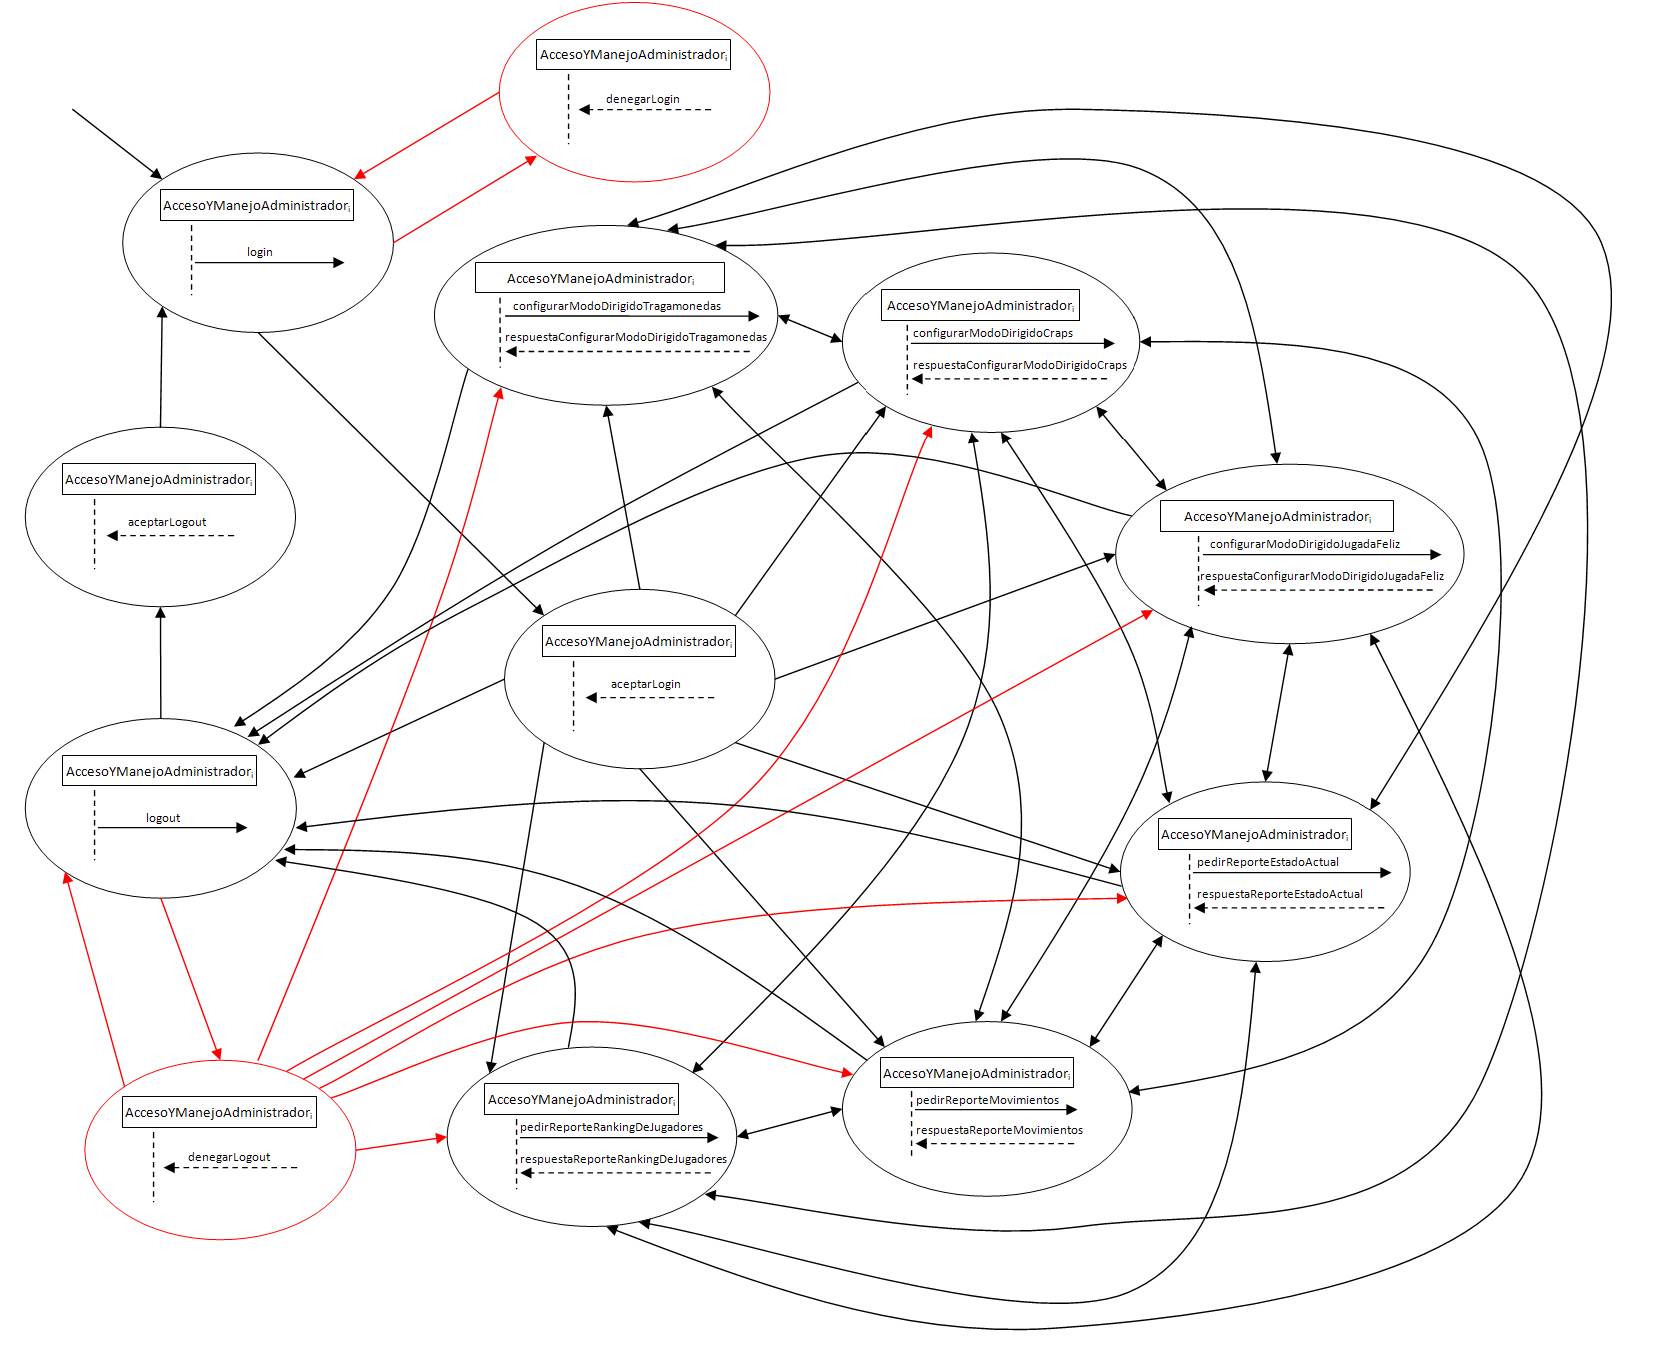
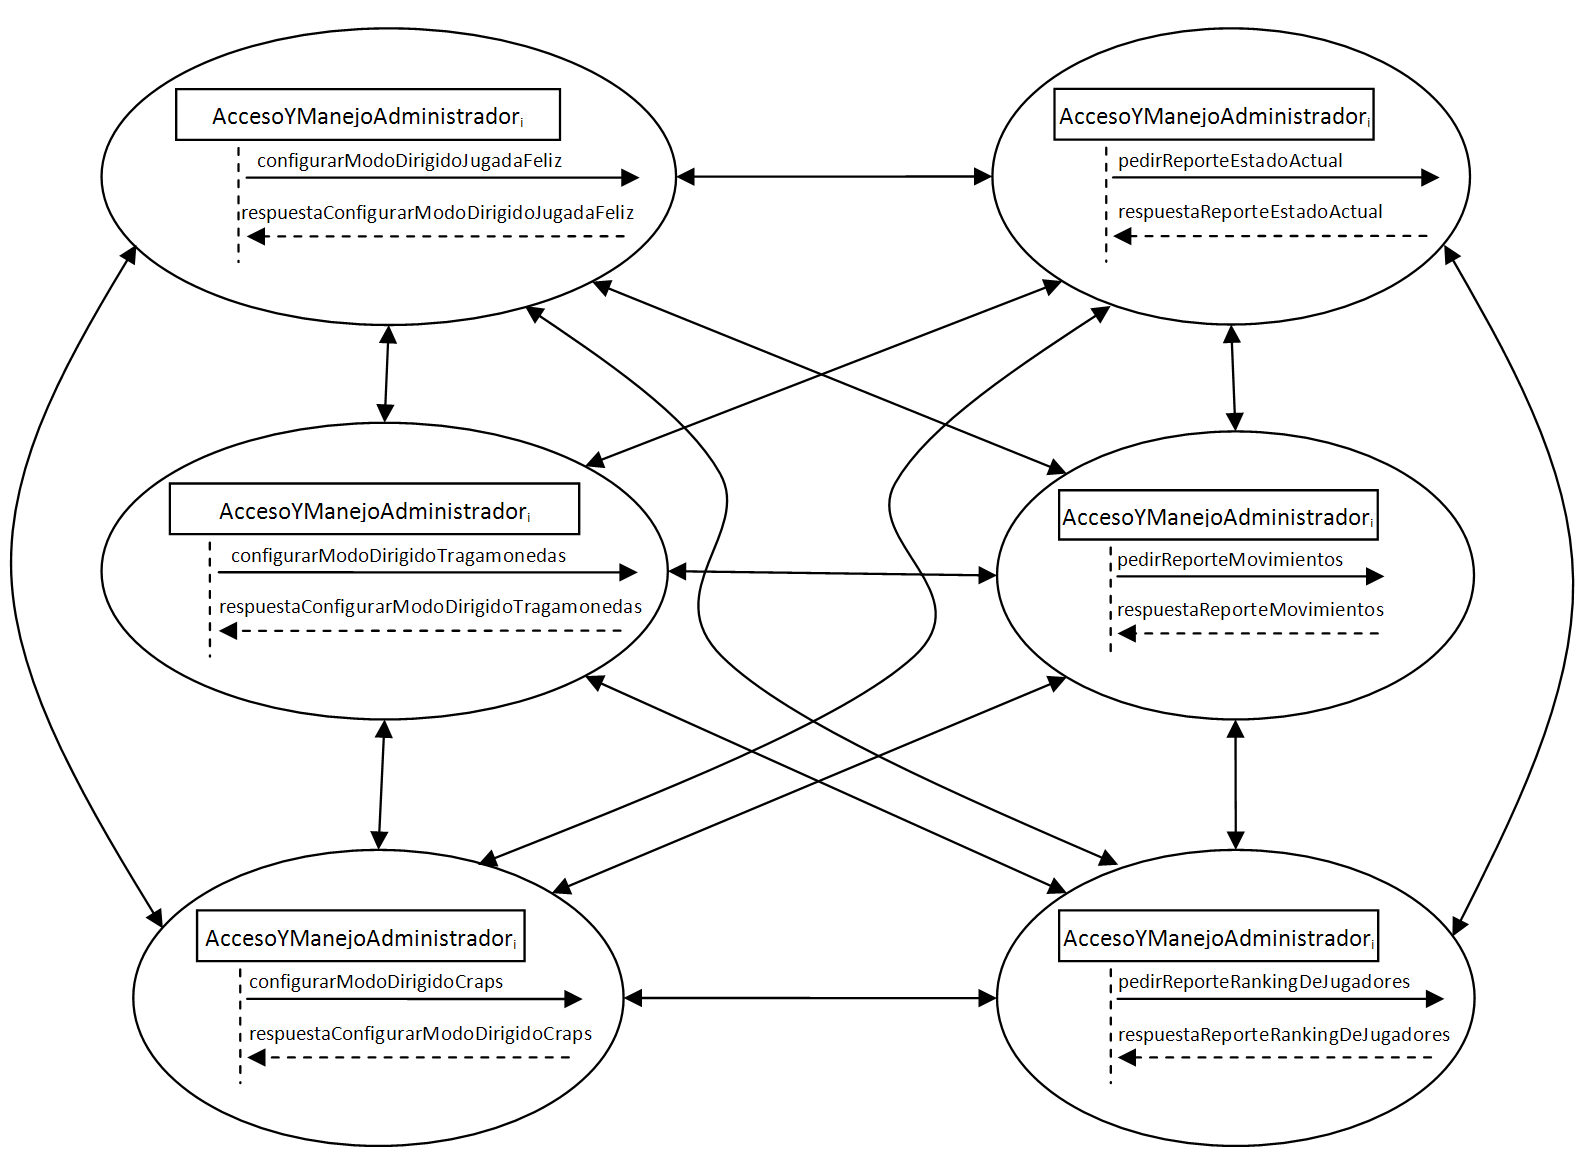
modified   trunk/tp2/doc/DiagramaProtocoloAdmin.docx modified   trunk/tp2/img/FSM_portAccesoYManejoAdministrador.png * nuevo diagrama de estados y explicación en el informe
modified   trunk/tp2/doc/Extensiones al protocolo.txt
modified   trunk/tp2/informe/protocolo.tex
- login, logout
+ admin password en cada request

diff --git a/tp2/informe/protocolo.tex b/tp2/informe/protocolo.tex
@@ -9,20 +9,17 @@ Este protocolo corresponde a un port de un componente cliente de un Cliente/Serv
 
 Se usa para que un usuario administrador pueda:
 \begin{itemize}
-    \item{autenticarse}
     \item{pedir reportes}
     \item{configurar opciones del modo dirigido}
 \end{itemize}
 
-El servidor no deber'ia aceptar los diferentes pedidos admitidos por este protocolo si el usuario administrador no se autentica como tal al iniciar la aplicaci'on.
+El servidor no deber'ia aceptar los diferentes pedidos admitidos por este protocolo si el usuario administrador no se autentica como tal proporcionando el password correcto en cada operaci'on.
 
-Este protocolo permite que el acceso de un usuario administrador sea exclusivo, no admitiendo el servidor que ingrese m'as de un administrador en forma simult'anea. 
-Esto asegura la consistencia de los datos ya que el servidor centraliza y administra los accesos.
-
-Hemos factorizado en un mismo mensaje las dos posibles respuestas de parte del servidor en cuanto a la configuraci'on del casino en modo dirigido. Es importante destacar que estas respuestas son simplemente a modo informativo de que las configuraciones de modo dirigido fueron modificadas con 'exito (o no han podido ser modificadas). La aplicaci'on cliente no tendr'ia por qu'e modificar su estado en respuesta a estas notificaciones, salvo a lo sumo dar acuse de recibo al usuario por alg'un mecanismo (un messagebox por ejemplo). El 'unico caso en que el servidor deber'ia contestar en forma negativa estos pedidos es cuando el usuario que hace el pedido no fue autenticado satisfactoriamente por el servidor o bien se intenta acceder de forma ilegal, lo cual suponemos no resulta interesante a los fines del trabajo pr'actico en cuesti'on.
+Hemos factorizado en un mismo mensaje las dos posibles respuestas de parte del servidor en cuanto a la configuraci'on del casino en modo dirigido. Es importante destacar que estas respuestas son simplemente a modo informativo de que las configuraciones de modo dirigido fueron modificadas con 'exito (o no han podido ser modificadas). La aplicaci'on cliente no tendr'ia por qu'e modificar su estado en respuesta a estas notificaciones, salvo a lo sumo dar acuse de recibo al usuario por alg'un mecanismo (un messagebox por ejemplo). El 'unico caso en que el servidor deber'ia contestar en forma negativa estos pedidos es cuando el usuario que hace el pedido no fue autenticado satisfactoriamente por el servidor.
 
 \subsubsection{Diagrama}
 El siguiente diagrama describe los estados y transiciones que ocurren cuando se hace un uso esperado del protocolo.
+Por la forma del protocolo dise~nado cualquiera podr'ia ser el estado inicial.
 
 Se realizaron cambios con respecto a la notaci'on empleada en el documento del protocolo original para poder reducir la cantidad de flechas con el fin de que el diagrama sea m'as legible. A saber, se admiten flechas bidireccionales en el grafo dirigido, esto significa que puede recorrerse ese eje en ambas direcciones. En el documento original se utilizaban 2 flechas con direcci'on opuesta para representar esto.
 
@@ -30,105 +27,6 @@ Se realizaron cambios con respecto a la notaci'on empleada en el documento del p
 
 \clearpage
 \subsubsection{Archivos de comunicaci'on}
-
-
-\subsubsubsection{login}
-\bf{Nombre del archivo:} \it{loginXXYYYY.xml}
-\begin{itemize}
-    \item{XX: n'umero de grupo}
-    \item{YYYY: n'umero de terminal virtual}
-\end{itemize}
-
-\bf{Descripci'on del xml:}
-\begin{verbatim}
-    <?xml version="1.0" encoding="UTF-8" ?>
-    <login vTerm="id terminal virtual" password="password de administrador"/>
-\end{verbatim}
-
-
-\subsubsubsection{aceptarLogin}
-\bf{Nombre del archivo:} \it{respuestaLoginXXYYYY.xml}
-\begin{itemize}
-    \item{XX: n'umero de grupo}
-    \item{YYYY: n'umero de terminal virtual}
-\end{itemize}
-
-\bf{Descripci'on del xml:}
-\begin{verbatim}
-    <?xml version="1.0" encoding="UTF-8" ?>
-    <respuestaLogin vTerm="id terminal virtual">
-        <aceptado fueAceptado="si" />
-        <descripcion>"informaci'on adicional"</descripcion>
-    </respuestaLogin>
-\end{verbatim}
-
-
-\subsubsubsection{denegarLogin}
-\bf{Nombre del archivo:} \it{respuestaLoginXXYYYY.xml}
-\begin{itemize}
-    \item{XX: n'umero de grupo}
-    \item{YYYY: n'umero de terminal virtual}
-\end{itemize}
-
-\bf{Descripci'on del xml:}
-\begin{verbatim}
-    <?xml version="1.0" encoding="UTF-8" ?>
-    <respuestaLogin vTerm="id terminal virtual">
-        <aceptado fueAceptado="no" />
-        <descripcion>"informaci'on adicional, de por qu'e no fue aceptado por ejemplo
-        u otra informacion relevante"</descripcion>
-    </respuestaLogin>
-\end{verbatim}
-
-
-\subsubsubsection{logout}
-\bf{Nombre del archivo:} \it{logoutXXYYYY.xml}
-\begin{itemize}
-    \item{XX: n'umero de grupo}
-    \item{YYYY: n'umero de terminal virtual}
-\end{itemize}
-
-\bf{Descripci'on del xml:}
-\begin{verbatim}
-    <?xml version="1.0" encoding="UTF-8" ?>
-    <logout vTerm="id terminal virtual" password="password de administrador"/>
-\end{verbatim}
-
-
-\subsubsubsection{aceptarLogout}
-\bf{Nombre del archivo:} \it{respuestaLogoutXXYYYY.xml}
-\begin{itemize}
-    \item{XX: n'umero de grupo}
-    \item{YYYY: n'umero de terminal virtual}
-\end{itemize}
-
-\bf{Descripci'on del xml:}
-\begin{verbatim}
-    <?xml version="1.0" encoding="UTF-8" ?>
-    <respuestaLogout vTerm="id terminal virtual">
-        <aceptado fueAceptado="si" />
-        <descripcion>"informaci'on adicional"</descripcion>
-    </respuestaLogout>
-\end{verbatim}
-
-
-\subsubsubsection{denegarLogout}
-\bf{Nombre del archivo:} \it{respuestaLogoutXXYYYY.xml}
-\begin{itemize}
-    \item{XX: n'umero de grupo}
-    \item{YYYY: n'umero de terminal virtual}
-\end{itemize}
-
-\bf{Descripci'on del xml:}
-\begin{verbatim}
-    <?xml version="1.0" encoding="UTF-8" ?>
-    <respuestaLogout vTerm="id terminal virtual">
-        <aceptado fueAceptado="no" />
-        <descripcion>"informaci'on adicional, de por qu'e no fue aceptado por ejemplo
-        u otra informacion relevante"</descripcion>
-    </respuestaLogout>
-\end{verbatim}
-
 
 \subsubsubsection{pedirReporteRankingDeJugadores}
 \bf{Nombre del archivo:} \it{pedidoReporteRankingDeJugadoresXXYYYY.xml}
@@ -140,7 +38,7 @@ Se realizaron cambios con respecto a la notaci'on empleada en el documento del p
 \bf{Descripci'on del xml:}
 \begin{verbatim}
     <?xml version="1.0" encoding="UTF-8" ?>
-    <pedidoReporteRankingDeJugadores vTerm="id terminal virtual" />
+    <pedidoReporteRankingDeJugadores vTerm="id terminal virtual" password="password de administrador" />
 \end{verbatim}
 
 
@@ -155,14 +53,15 @@ Se realizaron cambios con respecto a la notaci'on empleada en el documento del p
 \begin{verbatim}
 <?xml version="1.0" encoding="UTF-8" ?>
     <respuestaReporteRankingDeJugadores vTerm="id terminal virtual">
-        <jugadoresMasGanadores>
+        <aceptado fueAceptado="si | no" />
+       [<jugadoresMasGanadores>
             <jugador ranking="posicion" nombre="nombre del jugador" />
             ...
         </jugadoresMasGanadores>
         <jugadoresMasPerdedores>
             <jugador ranking="posicion" nombre="nombre del jugador" />
             ...
-        </jugadoresMasPerdedores>
+        </jugadoresMasPerdedores>]
     </respuestaReporteRankingDeJugadores>
 \end{verbatim}
 
@@ -177,7 +76,7 @@ Se realizaron cambios con respecto a la notaci'on empleada en el documento del p
 \bf{Descripci'on del xml:}
 \begin{verbatim}
     <?xml version="1.0" encoding="UTF-8" ?>
-    <pedidoReporteEstadoActual vTerm="id terminal virtual"></pedidoReporteEstadoActual>
+    <pedidoReporteEstadoActual vTerm="id terminal virtual" password="password de administrador" />
 \end{verbatim}
 
 
@@ -192,7 +91,8 @@ Se realizaron cambios con respecto a la notaci'on empleada en el documento del p
 \begin{verbatim}
     <?xml version="1.0" encoding="UTF-8" ?>
     <respuestaReporteEstadoActual vTerm="id terminal virtual">
-        <jugadores>
+        <aceptado fueAceptado="si | no" />
+       [<jugadores>
             <jugador nombre="nombre del usuario jugador" saldo="saldo del jugador" />
             ... 
         </jugadores>
@@ -245,7 +145,7 @@ Se realizaron cambios con respecto a la notaci'on empleada en el documento del p
         <pozosCasino>
             <pozoFeliz>"monto del pozo feliz"</pozoFeliz>
         </pozosCasino>
-        <saldoCasino>"saldo del casino"</saldoCasino>
+        <saldoCasino>"saldo del casino"</saldoCasino>]
     </respuestaReporteEstadoActual>
 \end{verbatim}
 
@@ -260,7 +160,7 @@ Se realizaron cambios con respecto a la notaci'on empleada en el documento del p
 \bf{Descripci'on del xml:}
 \begin{verbatim}
     <?xml version="1.0" encoding="UTF-8" ?>
-    <pedidoReporteMovimientos vTerm="id terminal virtual" />
+    <pedidoReporteMovimientos vTerm="id terminal virtual" password="password de administrador" />
 \end{verbatim}
 
 
@@ -275,7 +175,8 @@ Se realizaron cambios con respecto a la notaci'on empleada en el documento del p
 \begin{verbatim}
     <?xml version="1.0" encoding="UTF-8" ?>
     <respuestaReporteMovimientos vTerm="id terminal virtual">
-        <jugador nombre="nombre del jugador">
+        <aceptado fueAceptado="si | no" />
+       [<jugador nombre="nombre del jugador">
             <jugadasTragamonedas>
                 <jugadaTragamonedas tipo="normal | todos ponen | feliz | gordo progresivo |
                 feliz y gordo progresivo">
@@ -306,7 +207,7 @@ Se realizaron cambios con respecto a la notaci'on empleada en el documento del p
             </jugadasCraps>
             ...
         </jugador>
-        ...
+        ...]
     </respuestaReporteMovimientos>
 \end{verbatim}
 
@@ -321,7 +222,7 @@ Se realizaron cambios con respecto a la notaci'on empleada en el documento del p
 \bf{Descripci'on del xml:}
 \begin{verbatim}
     <?xml version="1.0" encoding="UTF-8" ?>
-    <configurarModoDirigidoTragamonedas vTerm="id terminal virtual">
+    <configurarModoDirigidoTragamonedas vTerm="id terminal virtual" password="password de administrador">
         <controlResultados activo="si | no">
             <resultado>
                [<rueda1>"cereza" | "barSimple" | "barDoble" | "barTriple" | "dinosaurio"</rueda1>
@@ -330,7 +231,7 @@ Se realizaron cambios con respecto a la notaci'on empleada en el documento del p
             </resultado>
         </controlResultados>
         <controlTipoJugadas activo="si | no">
-            <tipo>"Normal" | "TodosPonen" | "NoNormal" | "NoTodosPonen" | "NoFeliz"</tipo>
+            <tipo>"Azar" | "Normal" | "TodosPonen" | "NoNormal" | "NoTodosPonen" | "NoFeliz"</tipo>
         </controlTipoJugadas>
     </configurarModoDirigidoTragamonedas>
 \end{verbatim}
@@ -364,7 +265,7 @@ Se realizaron cambios con respecto a la notaci'on empleada en el documento del p
 \bf{Descripci'on del xml:}
 \begin{verbatim}
     <?xml version="1.0" encoding="UTF-8" ?>
-    <configurarModoDirigidoCraps vTerm="id terminal virtual">
+    <configurarModoDirigidoCraps vTerm="id terminal virtual" password="password de administrador">
         <controlResultados activo="si | no">
            [<resultado>
                 <dado1>"1" | "2" | "3" | "4" | "5" | "6"</dado1>
@@ -372,7 +273,7 @@ Se realizaron cambios con respecto a la notaci'on empleada en el documento del p
             </resultado>]
         </controlResultados>
         <controlTipoJugadas activo="si | no">
-           [<tipo>"Normal" | "TodosPonen" | "NoNormal" | "NoTodosPonen" | "NoFeliz"</tipo>]
+           [<tipo>"Azar" | "Normal" | "TodosPonen" | "NoNormal" | "NoTodosPonen" | "NoFeliz"</tipo>]
         </controlTipoJugadas>
     </configurarModoDirigidoCraps>
 \end{verbatim}
@@ -407,7 +308,7 @@ Se realizaron cambios con respecto a la notaci'on empleada en el documento del p
 \bf{Descripci'on del xml:}
 \begin{verbatim}
     <?xml version="1.0" encoding="UTF-8" ?>
-    <configurarModoDirigidoJugadaFeliz vTerm="id terminal virtual">
+    <configurarModoDirigidoJugadaFeliz vTerm="id terminal virtual" password="password de administrador">
         <control activo="si | no">
            [<mesa>"id de la mesa"</mesa>]
         </control>
